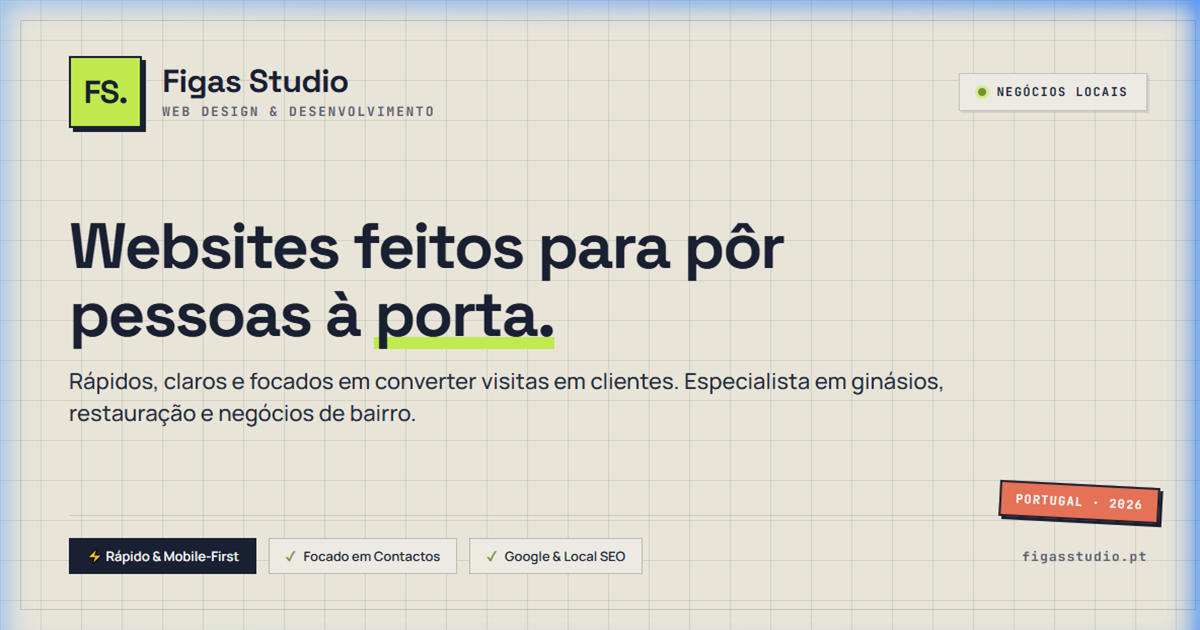
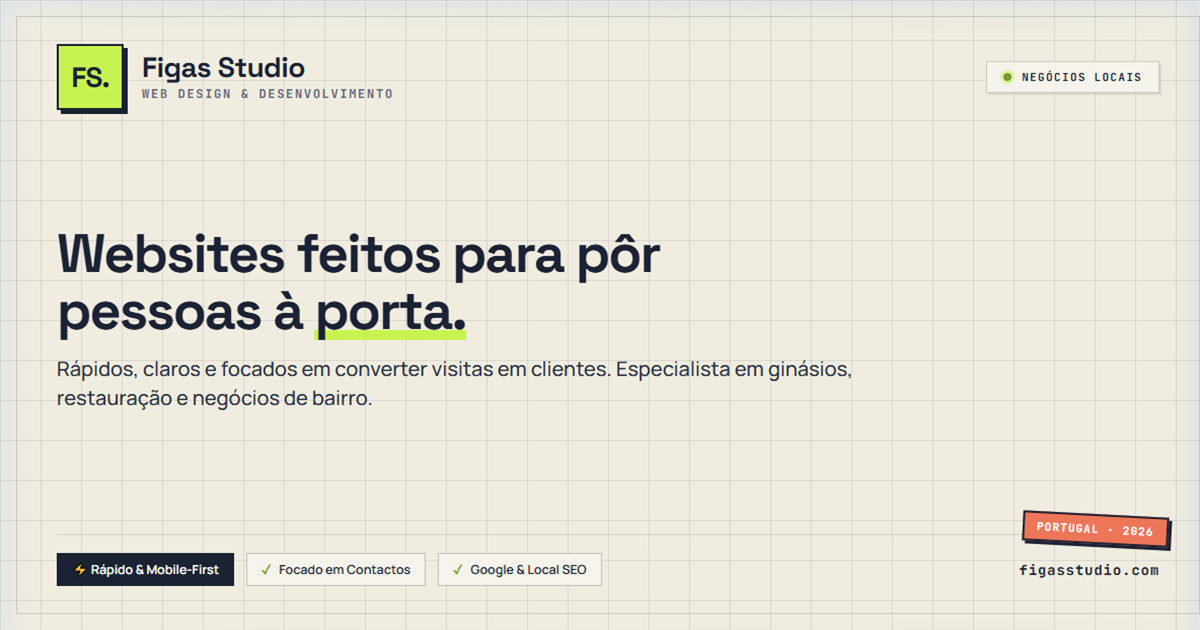
Open Graph Image

Changed region(s): [[0.0, 0.0, 1.0, 1.0]]

diff --git a/index.html b/index.html
@@ -11,11 +11,11 @@
 
     <!-- Open Graph / WhatsApp / Facebook / LinkedIn -->
     <meta property="og:type" content="website">
-    <meta property="og:url" content="https://rafafigas12.github.io/portfolio/">
+    <meta property="og:url" content="https://figasstudio.com/">
     <meta property="og:title" content="Figas Studio | Web Design & Desenvolvimento para negócios locais">
     <meta property="og:description"
         content="Websites rápidos, claros e feitos para pôr pessoas à porta. Especialista em ginásios, cafés e restauração de bairro.">
-    <meta property="og:image" content="https://rafafigas12.github.io/portfolio/og-image.png">
+    <meta property="og:image" content="https://figasstudio.com/og-image.png">
     <meta property="og:image:width" content="1200">
     <meta property="og:image:height" content="630">
     <meta property="og:image:type" content="image/png">
@@ -26,7 +26,7 @@
     <meta name="twitter:title" content="Figas Studio | Web Design & Desenvolvimento para negócios locais">
     <meta name="twitter:description"
         content="Websites rápidos, claros e feitos para pôr pessoas à porta. Especialista em ginásios, cafés e restauração de bairro.">
-    <meta name="twitter:image" content="https://rafafigas12.github.io/portfolio/og-image.png">
+    <meta name="twitter:image" content="https://figasstudio.com/og-image.png">
 
     <link rel="preconnect" href="https://fonts.googleapis.com">
     <link rel="preconnect" href="https://fonts.gstatic.com" crossorigin>
